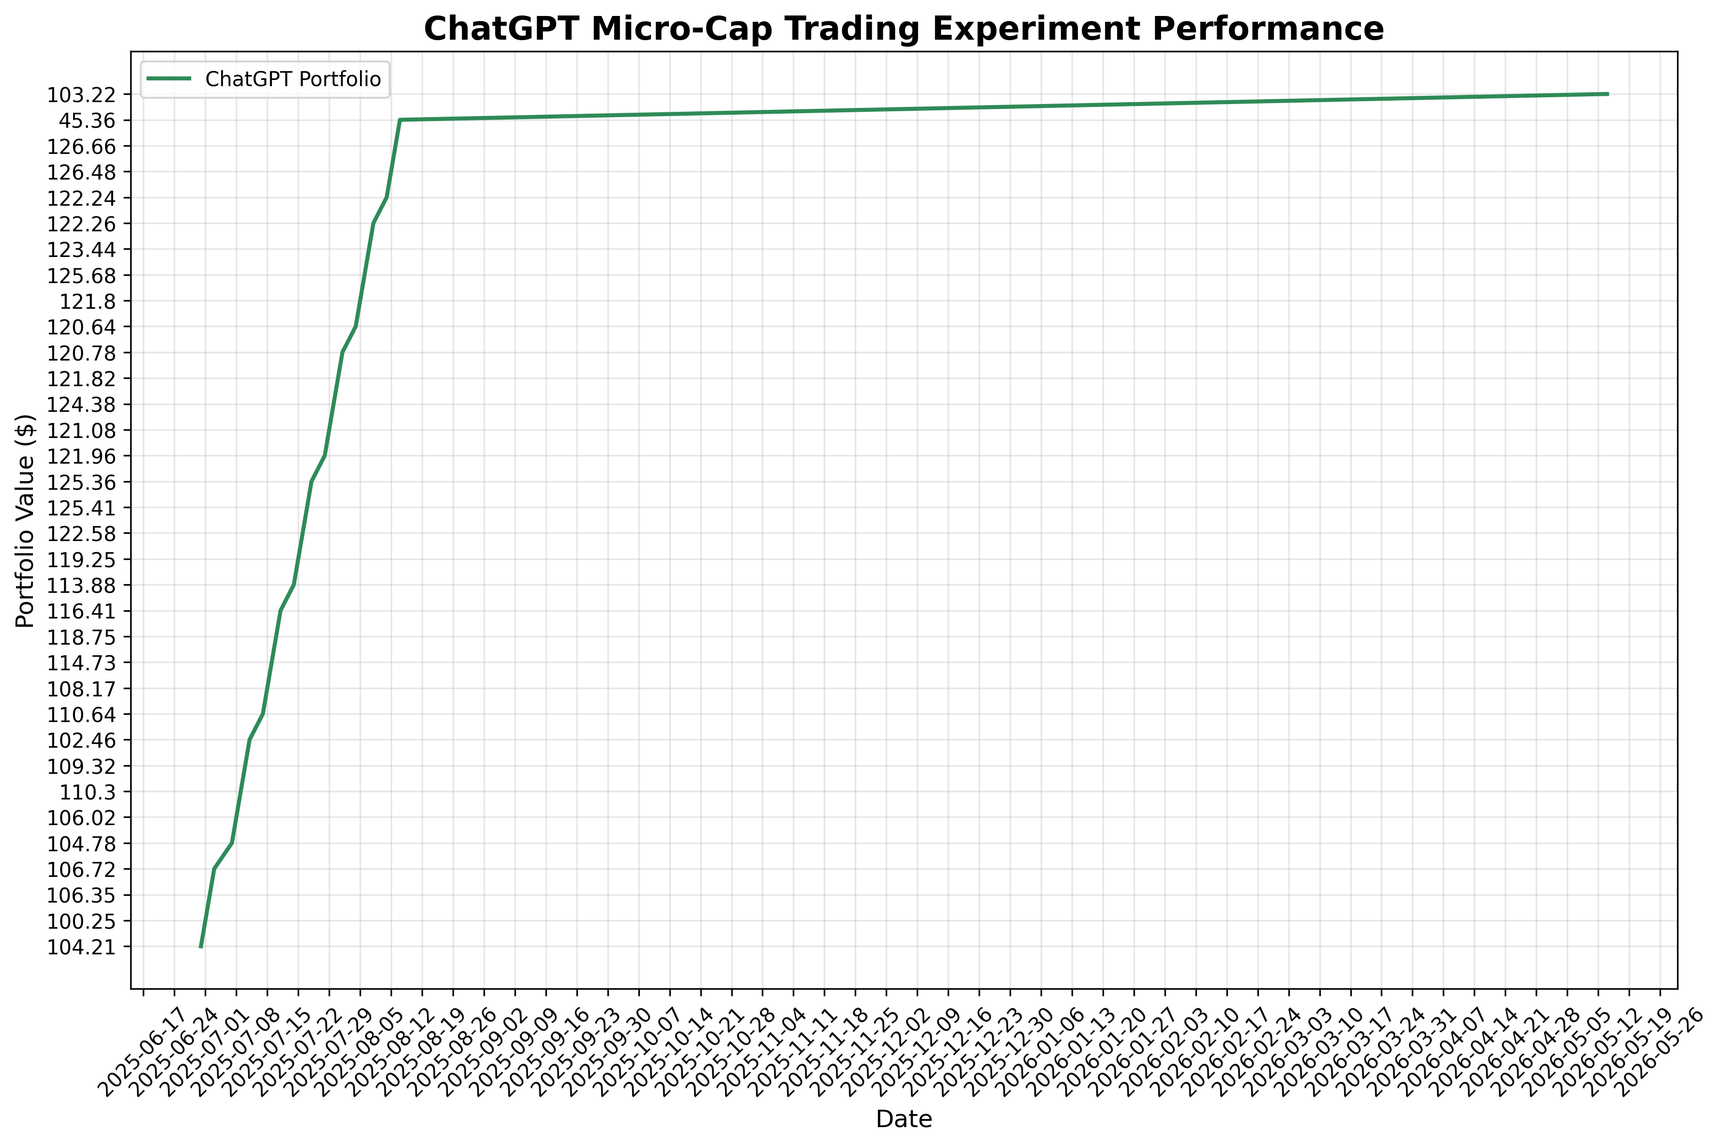
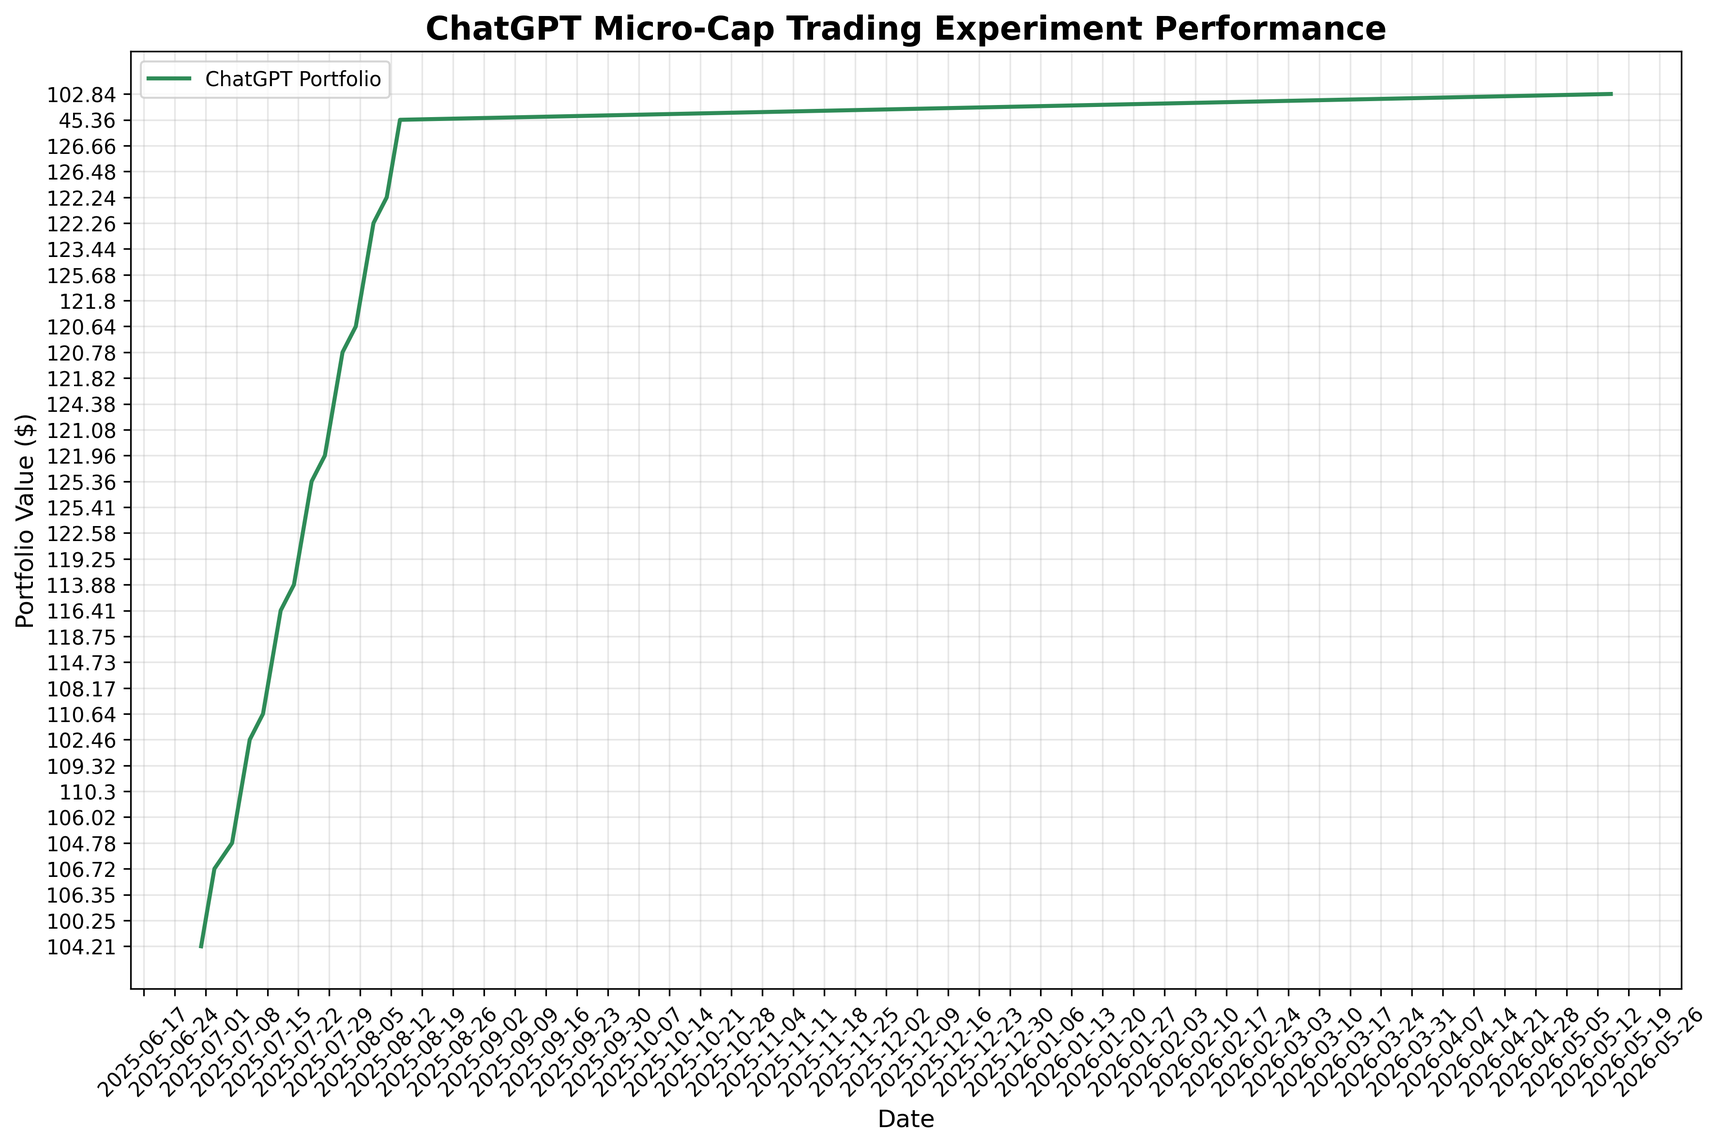
deploy: e15cad030d70fb3fbb51f9df6e22fa70c2f175c0

diff --git a/index.html b/index.html
@@ -105,7 +105,7 @@
                 <div class="stat-label">Total Trades</div>
             </div>
             <div class="stat-card">
-                <div class="stat-value" id="last-updated">2026-05-14</div>
+                <div class="stat-value" id="last-updated">2026-05-15</div>
                 <div class="stat-label">Last Updated</div>
             </div>
         </div>
@@ -160,8 +160,8 @@
     
     <script>
         // Portfolio data
-        const portfolioData = JSON.parse("[{&quot;Date&quot;: &quot;2025-08-11&quot;, &quot;Ticker&quot;: &quot;ABEO&quot;, &quot;Shares&quot;: 4.0, &quot;Buy Price&quot;: 5.77, &quot;Cost Basis&quot;: 23.08, &quot;Stop Loss&quot;: 4.9, &quot;Current Price&quot;: 6.28, &quot;Total Value&quot;: 25.12, &quot;PnL&quot;: 2.04, &quot;Action&quot;: &quot;HOLD&quot;, &quot;Cash Balance&quot;: NaN, &quot;Total Equity&quot;: NaN}, {&quot;Date&quot;: &quot;2025-08-11&quot;, &quot;Ticker&quot;: &quot;ACTU&quot;, &quot;Shares&quot;: 6.0, &quot;Buy Price&quot;: 5.75, &quot;Cost Basis&quot;: 34.5, &quot;Stop Loss&quot;: 4.89, &quot;Current Price&quot;: 8.01, &quot;Total Value&quot;: 48.06, &quot;PnL&quot;: 13.56, &quot;Action&quot;: &quot;HOLD&quot;, &quot;Cash Balance&quot;: NaN, &quot;Total Equity&quot;: NaN}, {&quot;Date&quot;: &quot;2025-08-11&quot;, &quot;Ticker&quot;: &quot;ESPR&quot;, &quot;Shares&quot;: 2.0, &quot;Buy Price&quot;: 1.91, &quot;Cost Basis&quot;: 3.82, &quot;Stop Loss&quot;: 1.6, &quot;Current Price&quot;: 1.85, &quot;Total Value&quot;: 3.7, &quot;PnL&quot;: -0.12, &quot;Action&quot;: &quot;HOLD&quot;, &quot;Cash Balance&quot;: NaN, &quot;Total Equity&quot;: NaN}, {&quot;Date&quot;: &quot;2025-08-11&quot;, &quot;Ticker&quot;: &quot;TOTAL&quot;, &quot;Shares&quot;: NaN, &quot;Buy Price&quot;: NaN, &quot;Cost Basis&quot;: NaN, &quot;Stop Loss&quot;: NaN, &quot;Current Price&quot;: NaN, &quot;Total Value&quot;: 76.88, &quot;PnL&quot;: 15.48, &quot;Action&quot;: NaN, &quot;Cash Balance&quot;: 45.36, &quot;Total Equity&quot;: &quot;122.24&quot;}, {&quot;Date&quot;: &quot;2025-08-12&quot;, &quot;Ticker&quot;: &quot;ABEO&quot;, &quot;Shares&quot;: 4.0, &quot;Buy Price&quot;: 5.77, &quot;Cost Basis&quot;: 23.08, &quot;Stop Loss&quot;: 4.9, &quot;Current Price&quot;: 6.38, &quot;Total Value&quot;: 25.52, &quot;PnL&quot;: 2.44, &quot;Action&quot;: &quot;HOLD&quot;, &quot;Cash Balance&quot;: NaN, &quot;Total Equity&quot;: NaN}, {&quot;Date&quot;: &quot;2025-08-12&quot;, &quot;Ticker&quot;: &quot;ACTU&quot;, &quot;Shares&quot;: 6.0, &quot;Buy Price&quot;: 5.75, &quot;Cost Basis&quot;: 34.5, &quot;Stop Loss&quot;: 4.89, &quot;Current Price&quot;: 8.67, &quot;Total Value&quot;: 52.02, &quot;PnL&quot;: 17.52, &quot;Action&quot;: &quot;HOLD&quot;, &quot;Cash Balance&quot;: NaN, &quot;Total Equity&quot;: NaN}, {&quot;Date&quot;: &quot;2025-08-12&quot;, &quot;Ticker&quot;: &quot;ESPR&quot;, &quot;Shares&quot;: 2.0, &quot;Buy Price&quot;: 1.91, &quot;Cost Basis&quot;: 3.82, &quot;Stop Loss&quot;: 1.6, &quot;Current Price&quot;: 1.79, &quot;Total Value&quot;: 3.58, &quot;PnL&quot;: -0.24, &quot;Action&quot;: &quot;HOLD&quot;, &quot;Cash Balance&quot;: NaN, &quot;Total Equity&quot;: NaN}, {&quot;Date&quot;: &quot;2025-08-12&quot;, &quot;Ticker&quot;: &quot;TOTAL&quot;, &quot;Shares&quot;: NaN, &quot;Buy Price&quot;: NaN, &quot;Cost Basis&quot;: NaN, &quot;Stop Loss&quot;: NaN, &quot;Current Price&quot;: NaN, &quot;Total Value&quot;: 81.12, &quot;PnL&quot;: 19.72, &quot;Action&quot;: NaN, &quot;Cash Balance&quot;: 45.36, &quot;Total Equity&quot;: &quot;126.48&quot;}, {&quot;Date&quot;: &quot;2025-08-13&quot;, &quot;Ticker&quot;: &quot;ABEO&quot;, &quot;Shares&quot;: 4.0, &quot;Buy Price&quot;: 5.77, &quot;Cost Basis&quot;: 23.08, &quot;Stop Loss&quot;: 4.9, &quot;Current Price&quot;: 6.56, &quot;Total Value&quot;: 26.24, &quot;PnL&quot;: 3.16, &quot;Action&quot;: &quot;HOLD&quot;, &quot;Cash Balance&quot;: NaN, &quot;Total Equity&quot;: NaN}, {&quot;Date&quot;: &quot;2025-08-13&quot;, &quot;Ticker&quot;: &quot;ACTU&quot;, &quot;Shares&quot;: 6.0, &quot;Buy Price&quot;: 5.75, &quot;Cost Basis&quot;: 34.5, &quot;Stop Loss&quot;: 4.89, &quot;Current Price&quot;: 8.53, &quot;Total Value&quot;: 51.18, &quot;PnL&quot;: 16.68, &quot;Action&quot;: &quot;HOLD&quot;, &quot;Cash Balance&quot;: NaN, &quot;Total Equity&quot;: NaN}, {&quot;Date&quot;: &quot;2025-08-13&quot;, &quot;Ticker&quot;: &quot;ESPR&quot;, &quot;Shares&quot;: 2.0, &quot;Buy Price&quot;: 1.91, &quot;Cost Basis&quot;: 3.82, &quot;Stop Loss&quot;: 1.6, &quot;Current Price&quot;: 1.94, &quot;Total Value&quot;: 3.88, &quot;PnL&quot;: 0.06, &quot;Action&quot;: &quot;HOLD&quot;, &quot;Cash Balance&quot;: NaN, &quot;Total Equity&quot;: NaN}, {&quot;Date&quot;: &quot;2025-08-13&quot;, &quot;Ticker&quot;: &quot;TOTAL&quot;, &quot;Shares&quot;: NaN, &quot;Buy Price&quot;: NaN, &quot;Cost Basis&quot;: NaN, &quot;Stop Loss&quot;: NaN, &quot;Current Price&quot;: NaN, &quot;Total Value&quot;: 81.3, &quot;PnL&quot;: 19.9, &quot;Action&quot;: NaN, &quot;Cash Balance&quot;: 45.36, &quot;Total Equity&quot;: &quot;126.66&quot;}, {&quot;Date&quot;: &quot;2025-08-14&quot;, &quot;Ticker&quot;: &quot;ABEO&quot;, &quot;Shares&quot;: 4.0, &quot;Buy Price&quot;: 5.77, &quot;Cost Basis&quot;: 23.08, &quot;Stop Loss&quot;: 4.9, &quot;Current Price&quot;: NaN, &quot;Total Value&quot;: NaN, &quot;PnL&quot;: NaN, &quot;Action&quot;: &quot;NO DATA&quot;, &quot;Cash Balance&quot;: NaN, &quot;Total Equity&quot;: NaN}, {&quot;Date&quot;: &quot;2025-08-14&quot;, &quot;Ticker&quot;: &quot;ACTU&quot;, &quot;Shares&quot;: 6.0, &quot;Buy Price&quot;: 5.75, &quot;Cost Basis&quot;: 34.5, &quot;Stop Loss&quot;: 4.89, &quot;Current Price&quot;: NaN, &quot;Total Value&quot;: NaN, &quot;PnL&quot;: NaN, &quot;Action&quot;: &quot;NO DATA&quot;, &quot;Cash Balance&quot;: NaN, &quot;Total Equity&quot;: NaN}, {&quot;Date&quot;: &quot;2025-08-14&quot;, &quot;Ticker&quot;: &quot;ESPR&quot;, &quot;Shares&quot;: 2.0, &quot;Buy Price&quot;: 1.91, &quot;Cost Basis&quot;: 3.82, &quot;Stop Loss&quot;: 1.6, &quot;Current Price&quot;: NaN, &quot;Total Value&quot;: NaN, &quot;PnL&quot;: NaN, &quot;Action&quot;: &quot;NO DATA&quot;, &quot;Cash Balance&quot;: NaN, &quot;Total Equity&quot;: NaN}, {&quot;Date&quot;: &quot;2025-08-14&quot;, &quot;Ticker&quot;: &quot;TOTAL&quot;, &quot;Shares&quot;: NaN, &quot;Buy Price&quot;: NaN, &quot;Cost Basis&quot;: NaN, &quot;Stop Loss&quot;: NaN, &quot;Current Price&quot;: NaN, &quot;Total Value&quot;: 0.0, &quot;PnL&quot;: 0.0, &quot;Action&quot;: NaN, &quot;Cash Balance&quot;: 45.36, &quot;Total Equity&quot;: &quot;45.36&quot;}, {&quot;Date&quot;: &quot;2026-05-14&quot;, &quot;Ticker&quot;: &quot;ABEO&quot;, &quot;Shares&quot;: 4.0, &quot;Buy Price&quot;: 5.77, &quot;Cost Basis&quot;: 23.08, &quot;Stop Loss&quot;: 4.9, &quot;Current Price&quot;: 5.57, &quot;Total Value&quot;: 22.28, &quot;PnL&quot;: -0.8, &quot;Action&quot;: &quot;HOLD&quot;, &quot;Cash Balance&quot;: NaN, &quot;Total Equity&quot;: NaN}, {&quot;Date&quot;: &quot;2026-05-14&quot;, &quot;Ticker&quot;: &quot;ACTU&quot;, &quot;Shares&quot;: 6.0, &quot;Buy Price&quot;: 5.75, &quot;Cost Basis&quot;: 34.5, &quot;Stop Loss&quot;: 4.89, &quot;Current Price&quot;: 4.89, &quot;Total Value&quot;: 29.34, &quot;PnL&quot;: -5.16, &quot;Action&quot;: &quot;SELL - Stop Loss Triggered&quot;, &quot;Cash Balance&quot;: NaN, &quot;Total Equity&quot;: NaN}, {&quot;Date&quot;: &quot;2026-05-14&quot;, &quot;Ticker&quot;: &quot;ESPR&quot;, &quot;Shares&quot;: 2.0, &quot;Buy Price&quot;: 1.91, &quot;Cost Basis&quot;: 3.82, &quot;Stop Loss&quot;: 1.6, &quot;Current Price&quot;: 3.12, &quot;Total Value&quot;: 6.24, &quot;PnL&quot;: 2.42, &quot;Action&quot;: &quot;HOLD&quot;, &quot;Cash Balance&quot;: NaN, &quot;Total Equity&quot;: NaN}, {&quot;Date&quot;: &quot;2026-05-14&quot;, &quot;Ticker&quot;: &quot;TOTAL&quot;, &quot;Shares&quot;: NaN, &quot;Buy Price&quot;: NaN, &quot;Cost Basis&quot;: NaN, &quot;Stop Loss&quot;: NaN, &quot;Current Price&quot;: NaN, &quot;Total Value&quot;: 28.52, &quot;PnL&quot;: 1.62, &quot;Action&quot;: NaN, &quot;Cash Balance&quot;: 74.7, &quot;Total Equity&quot;: &quot;103.22&quot;}]");
-        const tradeData = JSON.parse("[{&quot;Date&quot;: &quot;2025-07-08&quot;, &quot;Ticker&quot;: &quot;IINN&quot;, &quot;Shares Bought&quot;: 20.0, &quot;Buy Price&quot;: 1.5, &quot;Cost Basis&quot;: 30.0, &quot;PnL&quot;: 0.0, &quot;Reason&quot;: &quot;MANUAL BUY - New position&quot;, &quot;Shares Sold&quot;: NaN, &quot;Sell Price&quot;: NaN}, {&quot;Date&quot;: &quot;2025-07-21&quot;, &quot;Ticker&quot;: &quot;CADL&quot;, &quot;Shares Bought&quot;: NaN, &quot;Buy Price&quot;: NaN, &quot;Cost Basis&quot;: 25.2, &quot;PnL&quot;: 8.5, &quot;Reason&quot;: &quot;MANUAL SELL - GAIN CAPITAL FOR ACTU&quot;, &quot;Shares Sold&quot;: 5.0, &quot;Sell Price&quot;: 6.59}, {&quot;Date&quot;: &quot;2025-07-21&quot;, &quot;Ticker&quot;: &quot;ACTU&quot;, &quot;Shares Bought&quot;: 6.0, &quot;Buy Price&quot;: 5.75, &quot;Cost Basis&quot;: 34.5, &quot;PnL&quot;: 0.0, &quot;Reason&quot;: &quot;MANUAL BUY - New position&quot;, &quot;Shares Sold&quot;: NaN, &quot;Sell Price&quot;: NaN}, {&quot;Date&quot;: &quot;2025-07-28&quot;, &quot;Ticker&quot;: &quot;IINN&quot;, &quot;Shares Bought&quot;: NaN, &quot;Buy Price&quot;: NaN, &quot;Cost Basis&quot;: 9.0, &quot;PnL&quot;: -0.5400000000000009, &quot;Reason&quot;: &quot;MANUAL SELL - POSITION REDUCTION&quot;, &quot;Shares Sold&quot;: 6.0, &quot;Sell Price&quot;: 1.41}, {&quot;Date&quot;: &quot;2025-07-29&quot;, &quot;Ticker&quot;: &quot;AZTR&quot;, &quot;Shares Bought&quot;: NaN, &quot;Buy Price&quot;: NaN, &quot;Cost Basis&quot;: 13.75, &quot;PnL&quot;: -2.75, &quot;Reason&quot;: &quot;MANUAL SELL - DILUTION RISK&quot;, &quot;Shares Sold&quot;: 55.0, &quot;Sell Price&quot;: 0.2}, {&quot;Date&quot;: &quot;2025-08-01&quot;, &quot;Ticker&quot;: &quot;IINN&quot;, &quot;Shares Bought&quot;: 2.0, &quot;Buy Price&quot;: 1.74, &quot;Cost Basis&quot;: 3.48, &quot;PnL&quot;: 0.0, &quot;Reason&quot;: &quot;MANUAL BUY - New position&quot;, &quot;Shares Sold&quot;: NaN, &quot;Sell Price&quot;: NaN}, {&quot;Date&quot;: &quot;2025-08-01&quot;, &quot;Ticker&quot;: &quot;ABEO&quot;, &quot;Shares Bought&quot;: NaN, &quot;Buy Price&quot;: NaN, &quot;Cost Basis&quot;: 11.54, &quot;PnL&quot;: 1.200000000000001, &quot;Reason&quot;: &quot;MANUAL SELL - TRIM AFTER SUPPORT LOSS&quot;, &quot;Shares Sold&quot;: 2.0, &quot;Sell Price&quot;: 6.37}, {&quot;Date&quot;: &quot;2025-08-07&quot;, &quot;Ticker&quot;: &quot;ESPR&quot;, &quot;Shares Bought&quot;: 2.0, &quot;Buy Price&quot;: 1.91, &quot;Cost Basis&quot;: 3.82, &quot;PnL&quot;: 0.0, &quot;Reason&quot;: &quot;MANUAL BUY - New position&quot;, &quot;Shares Sold&quot;: NaN, &quot;Sell Price&quot;: NaN}, {&quot;Date&quot;: &quot;2025-08-08&quot;, &quot;Ticker&quot;: &quot;IINN&quot;, &quot;Shares Bought&quot;: NaN, &quot;Buy Price&quot;: NaN, &quot;Cost Basis&quot;: 1.5, &quot;PnL&quot;: -6.4, &quot;Reason&quot;: &quot;AUTOMATED SELL - STOPLOSS TRIGGERED&quot;, &quot;Shares Sold&quot;: 16.0, &quot;Sell Price&quot;: 1.1}, {&quot;Date&quot;: &quot;2026-05-14&quot;, &quot;Ticker&quot;: &quot;ACTU&quot;, &quot;Shares Bought&quot;: NaN, &quot;Buy Price&quot;: NaN, &quot;Cost Basis&quot;: 5.75, &quot;PnL&quot;: -5.16, &quot;Reason&quot;: &quot;AUTOMATED SELL - STOPLOSS TRIGGERED&quot;, &quot;Shares Sold&quot;: 6.0, &quot;Sell Price&quot;: 4.89}]");
+        const portfolioData = JSON.parse("[{&quot;Date&quot;: &quot;2025-08-11&quot;, &quot;Ticker&quot;: &quot;ABEO&quot;, &quot;Shares&quot;: 4.0, &quot;Buy Price&quot;: 5.77, &quot;Cost Basis&quot;: 23.08, &quot;Stop Loss&quot;: 4.9, &quot;Current Price&quot;: 6.28, &quot;Total Value&quot;: 25.12, &quot;PnL&quot;: 2.04, &quot;Action&quot;: &quot;HOLD&quot;, &quot;Cash Balance&quot;: NaN, &quot;Total Equity&quot;: NaN}, {&quot;Date&quot;: &quot;2025-08-11&quot;, &quot;Ticker&quot;: &quot;ACTU&quot;, &quot;Shares&quot;: 6.0, &quot;Buy Price&quot;: 5.75, &quot;Cost Basis&quot;: 34.5, &quot;Stop Loss&quot;: 4.89, &quot;Current Price&quot;: 8.01, &quot;Total Value&quot;: 48.06, &quot;PnL&quot;: 13.56, &quot;Action&quot;: &quot;HOLD&quot;, &quot;Cash Balance&quot;: NaN, &quot;Total Equity&quot;: NaN}, {&quot;Date&quot;: &quot;2025-08-11&quot;, &quot;Ticker&quot;: &quot;ESPR&quot;, &quot;Shares&quot;: 2.0, &quot;Buy Price&quot;: 1.91, &quot;Cost Basis&quot;: 3.82, &quot;Stop Loss&quot;: 1.6, &quot;Current Price&quot;: 1.85, &quot;Total Value&quot;: 3.7, &quot;PnL&quot;: -0.12, &quot;Action&quot;: &quot;HOLD&quot;, &quot;Cash Balance&quot;: NaN, &quot;Total Equity&quot;: NaN}, {&quot;Date&quot;: &quot;2025-08-11&quot;, &quot;Ticker&quot;: &quot;TOTAL&quot;, &quot;Shares&quot;: NaN, &quot;Buy Price&quot;: NaN, &quot;Cost Basis&quot;: NaN, &quot;Stop Loss&quot;: NaN, &quot;Current Price&quot;: NaN, &quot;Total Value&quot;: 76.88, &quot;PnL&quot;: 15.48, &quot;Action&quot;: NaN, &quot;Cash Balance&quot;: 45.36, &quot;Total Equity&quot;: &quot;122.24&quot;}, {&quot;Date&quot;: &quot;2025-08-12&quot;, &quot;Ticker&quot;: &quot;ABEO&quot;, &quot;Shares&quot;: 4.0, &quot;Buy Price&quot;: 5.77, &quot;Cost Basis&quot;: 23.08, &quot;Stop Loss&quot;: 4.9, &quot;Current Price&quot;: 6.38, &quot;Total Value&quot;: 25.52, &quot;PnL&quot;: 2.44, &quot;Action&quot;: &quot;HOLD&quot;, &quot;Cash Balance&quot;: NaN, &quot;Total Equity&quot;: NaN}, {&quot;Date&quot;: &quot;2025-08-12&quot;, &quot;Ticker&quot;: &quot;ACTU&quot;, &quot;Shares&quot;: 6.0, &quot;Buy Price&quot;: 5.75, &quot;Cost Basis&quot;: 34.5, &quot;Stop Loss&quot;: 4.89, &quot;Current Price&quot;: 8.67, &quot;Total Value&quot;: 52.02, &quot;PnL&quot;: 17.52, &quot;Action&quot;: &quot;HOLD&quot;, &quot;Cash Balance&quot;: NaN, &quot;Total Equity&quot;: NaN}, {&quot;Date&quot;: &quot;2025-08-12&quot;, &quot;Ticker&quot;: &quot;ESPR&quot;, &quot;Shares&quot;: 2.0, &quot;Buy Price&quot;: 1.91, &quot;Cost Basis&quot;: 3.82, &quot;Stop Loss&quot;: 1.6, &quot;Current Price&quot;: 1.79, &quot;Total Value&quot;: 3.58, &quot;PnL&quot;: -0.24, &quot;Action&quot;: &quot;HOLD&quot;, &quot;Cash Balance&quot;: NaN, &quot;Total Equity&quot;: NaN}, {&quot;Date&quot;: &quot;2025-08-12&quot;, &quot;Ticker&quot;: &quot;TOTAL&quot;, &quot;Shares&quot;: NaN, &quot;Buy Price&quot;: NaN, &quot;Cost Basis&quot;: NaN, &quot;Stop Loss&quot;: NaN, &quot;Current Price&quot;: NaN, &quot;Total Value&quot;: 81.12, &quot;PnL&quot;: 19.72, &quot;Action&quot;: NaN, &quot;Cash Balance&quot;: 45.36, &quot;Total Equity&quot;: &quot;126.48&quot;}, {&quot;Date&quot;: &quot;2025-08-13&quot;, &quot;Ticker&quot;: &quot;ABEO&quot;, &quot;Shares&quot;: 4.0, &quot;Buy Price&quot;: 5.77, &quot;Cost Basis&quot;: 23.08, &quot;Stop Loss&quot;: 4.9, &quot;Current Price&quot;: 6.56, &quot;Total Value&quot;: 26.24, &quot;PnL&quot;: 3.16, &quot;Action&quot;: &quot;HOLD&quot;, &quot;Cash Balance&quot;: NaN, &quot;Total Equity&quot;: NaN}, {&quot;Date&quot;: &quot;2025-08-13&quot;, &quot;Ticker&quot;: &quot;ACTU&quot;, &quot;Shares&quot;: 6.0, &quot;Buy Price&quot;: 5.75, &quot;Cost Basis&quot;: 34.5, &quot;Stop Loss&quot;: 4.89, &quot;Current Price&quot;: 8.53, &quot;Total Value&quot;: 51.18, &quot;PnL&quot;: 16.68, &quot;Action&quot;: &quot;HOLD&quot;, &quot;Cash Balance&quot;: NaN, &quot;Total Equity&quot;: NaN}, {&quot;Date&quot;: &quot;2025-08-13&quot;, &quot;Ticker&quot;: &quot;ESPR&quot;, &quot;Shares&quot;: 2.0, &quot;Buy Price&quot;: 1.91, &quot;Cost Basis&quot;: 3.82, &quot;Stop Loss&quot;: 1.6, &quot;Current Price&quot;: 1.94, &quot;Total Value&quot;: 3.88, &quot;PnL&quot;: 0.06, &quot;Action&quot;: &quot;HOLD&quot;, &quot;Cash Balance&quot;: NaN, &quot;Total Equity&quot;: NaN}, {&quot;Date&quot;: &quot;2025-08-13&quot;, &quot;Ticker&quot;: &quot;TOTAL&quot;, &quot;Shares&quot;: NaN, &quot;Buy Price&quot;: NaN, &quot;Cost Basis&quot;: NaN, &quot;Stop Loss&quot;: NaN, &quot;Current Price&quot;: NaN, &quot;Total Value&quot;: 81.3, &quot;PnL&quot;: 19.9, &quot;Action&quot;: NaN, &quot;Cash Balance&quot;: 45.36, &quot;Total Equity&quot;: &quot;126.66&quot;}, {&quot;Date&quot;: &quot;2025-08-14&quot;, &quot;Ticker&quot;: &quot;ABEO&quot;, &quot;Shares&quot;: 4.0, &quot;Buy Price&quot;: 5.77, &quot;Cost Basis&quot;: 23.08, &quot;Stop Loss&quot;: 4.9, &quot;Current Price&quot;: NaN, &quot;Total Value&quot;: NaN, &quot;PnL&quot;: NaN, &quot;Action&quot;: &quot;NO DATA&quot;, &quot;Cash Balance&quot;: NaN, &quot;Total Equity&quot;: NaN}, {&quot;Date&quot;: &quot;2025-08-14&quot;, &quot;Ticker&quot;: &quot;ACTU&quot;, &quot;Shares&quot;: 6.0, &quot;Buy Price&quot;: 5.75, &quot;Cost Basis&quot;: 34.5, &quot;Stop Loss&quot;: 4.89, &quot;Current Price&quot;: NaN, &quot;Total Value&quot;: NaN, &quot;PnL&quot;: NaN, &quot;Action&quot;: &quot;NO DATA&quot;, &quot;Cash Balance&quot;: NaN, &quot;Total Equity&quot;: NaN}, {&quot;Date&quot;: &quot;2025-08-14&quot;, &quot;Ticker&quot;: &quot;ESPR&quot;, &quot;Shares&quot;: 2.0, &quot;Buy Price&quot;: 1.91, &quot;Cost Basis&quot;: 3.82, &quot;Stop Loss&quot;: 1.6, &quot;Current Price&quot;: NaN, &quot;Total Value&quot;: NaN, &quot;PnL&quot;: NaN, &quot;Action&quot;: &quot;NO DATA&quot;, &quot;Cash Balance&quot;: NaN, &quot;Total Equity&quot;: NaN}, {&quot;Date&quot;: &quot;2025-08-14&quot;, &quot;Ticker&quot;: &quot;TOTAL&quot;, &quot;Shares&quot;: NaN, &quot;Buy Price&quot;: NaN, &quot;Cost Basis&quot;: NaN, &quot;Stop Loss&quot;: NaN, &quot;Current Price&quot;: NaN, &quot;Total Value&quot;: 0.0, &quot;PnL&quot;: 0.0, &quot;Action&quot;: NaN, &quot;Cash Balance&quot;: 45.36, &quot;Total Equity&quot;: &quot;45.36&quot;}, {&quot;Date&quot;: &quot;2026-05-15&quot;, &quot;Ticker&quot;: &quot;ABEO&quot;, &quot;Shares&quot;: 4.0, &quot;Buy Price&quot;: 5.77, &quot;Cost Basis&quot;: 23.08, &quot;Stop Loss&quot;: 4.9, &quot;Current Price&quot;: 5.47, &quot;Total Value&quot;: 21.88, &quot;PnL&quot;: -1.2, &quot;Action&quot;: &quot;HOLD&quot;, &quot;Cash Balance&quot;: NaN, &quot;Total Equity&quot;: NaN}, {&quot;Date&quot;: &quot;2026-05-15&quot;, &quot;Ticker&quot;: &quot;ACTU&quot;, &quot;Shares&quot;: 6.0, &quot;Buy Price&quot;: 5.75, &quot;Cost Basis&quot;: 34.5, &quot;Stop Loss&quot;: 4.89, &quot;Current Price&quot;: 4.89, &quot;Total Value&quot;: 29.34, &quot;PnL&quot;: -5.16, &quot;Action&quot;: &quot;SELL - Stop Loss Triggered&quot;, &quot;Cash Balance&quot;: NaN, &quot;Total Equity&quot;: NaN}, {&quot;Date&quot;: &quot;2026-05-15&quot;, &quot;Ticker&quot;: &quot;ESPR&quot;, &quot;Shares&quot;: 2.0, &quot;Buy Price&quot;: 1.91, &quot;Cost Basis&quot;: 3.82, &quot;Stop Loss&quot;: 1.6, &quot;Current Price&quot;: 3.13, &quot;Total Value&quot;: 6.26, &quot;PnL&quot;: 2.44, &quot;Action&quot;: &quot;HOLD&quot;, &quot;Cash Balance&quot;: NaN, &quot;Total Equity&quot;: NaN}, {&quot;Date&quot;: &quot;2026-05-15&quot;, &quot;Ticker&quot;: &quot;TOTAL&quot;, &quot;Shares&quot;: NaN, &quot;Buy Price&quot;: NaN, &quot;Cost Basis&quot;: NaN, &quot;Stop Loss&quot;: NaN, &quot;Current Price&quot;: NaN, &quot;Total Value&quot;: 28.14, &quot;PnL&quot;: 1.24, &quot;Action&quot;: NaN, &quot;Cash Balance&quot;: 74.7, &quot;Total Equity&quot;: &quot;102.84&quot;}]");
+        const tradeData = JSON.parse("[{&quot;Date&quot;: &quot;2025-07-08&quot;, &quot;Ticker&quot;: &quot;IINN&quot;, &quot;Shares Bought&quot;: 20.0, &quot;Buy Price&quot;: 1.5, &quot;Cost Basis&quot;: 30.0, &quot;PnL&quot;: 0.0, &quot;Reason&quot;: &quot;MANUAL BUY - New position&quot;, &quot;Shares Sold&quot;: NaN, &quot;Sell Price&quot;: NaN}, {&quot;Date&quot;: &quot;2025-07-21&quot;, &quot;Ticker&quot;: &quot;CADL&quot;, &quot;Shares Bought&quot;: NaN, &quot;Buy Price&quot;: NaN, &quot;Cost Basis&quot;: 25.2, &quot;PnL&quot;: 8.5, &quot;Reason&quot;: &quot;MANUAL SELL - GAIN CAPITAL FOR ACTU&quot;, &quot;Shares Sold&quot;: 5.0, &quot;Sell Price&quot;: 6.59}, {&quot;Date&quot;: &quot;2025-07-21&quot;, &quot;Ticker&quot;: &quot;ACTU&quot;, &quot;Shares Bought&quot;: 6.0, &quot;Buy Price&quot;: 5.75, &quot;Cost Basis&quot;: 34.5, &quot;PnL&quot;: 0.0, &quot;Reason&quot;: &quot;MANUAL BUY - New position&quot;, &quot;Shares Sold&quot;: NaN, &quot;Sell Price&quot;: NaN}, {&quot;Date&quot;: &quot;2025-07-28&quot;, &quot;Ticker&quot;: &quot;IINN&quot;, &quot;Shares Bought&quot;: NaN, &quot;Buy Price&quot;: NaN, &quot;Cost Basis&quot;: 9.0, &quot;PnL&quot;: -0.5400000000000009, &quot;Reason&quot;: &quot;MANUAL SELL - POSITION REDUCTION&quot;, &quot;Shares Sold&quot;: 6.0, &quot;Sell Price&quot;: 1.41}, {&quot;Date&quot;: &quot;2025-07-29&quot;, &quot;Ticker&quot;: &quot;AZTR&quot;, &quot;Shares Bought&quot;: NaN, &quot;Buy Price&quot;: NaN, &quot;Cost Basis&quot;: 13.75, &quot;PnL&quot;: -2.75, &quot;Reason&quot;: &quot;MANUAL SELL - DILUTION RISK&quot;, &quot;Shares Sold&quot;: 55.0, &quot;Sell Price&quot;: 0.2}, {&quot;Date&quot;: &quot;2025-08-01&quot;, &quot;Ticker&quot;: &quot;IINN&quot;, &quot;Shares Bought&quot;: 2.0, &quot;Buy Price&quot;: 1.74, &quot;Cost Basis&quot;: 3.48, &quot;PnL&quot;: 0.0, &quot;Reason&quot;: &quot;MANUAL BUY - New position&quot;, &quot;Shares Sold&quot;: NaN, &quot;Sell Price&quot;: NaN}, {&quot;Date&quot;: &quot;2025-08-01&quot;, &quot;Ticker&quot;: &quot;ABEO&quot;, &quot;Shares Bought&quot;: NaN, &quot;Buy Price&quot;: NaN, &quot;Cost Basis&quot;: 11.54, &quot;PnL&quot;: 1.200000000000001, &quot;Reason&quot;: &quot;MANUAL SELL - TRIM AFTER SUPPORT LOSS&quot;, &quot;Shares Sold&quot;: 2.0, &quot;Sell Price&quot;: 6.37}, {&quot;Date&quot;: &quot;2025-08-07&quot;, &quot;Ticker&quot;: &quot;ESPR&quot;, &quot;Shares Bought&quot;: 2.0, &quot;Buy Price&quot;: 1.91, &quot;Cost Basis&quot;: 3.82, &quot;PnL&quot;: 0.0, &quot;Reason&quot;: &quot;MANUAL BUY - New position&quot;, &quot;Shares Sold&quot;: NaN, &quot;Sell Price&quot;: NaN}, {&quot;Date&quot;: &quot;2025-08-08&quot;, &quot;Ticker&quot;: &quot;IINN&quot;, &quot;Shares Bought&quot;: NaN, &quot;Buy Price&quot;: NaN, &quot;Cost Basis&quot;: 1.5, &quot;PnL&quot;: -6.4, &quot;Reason&quot;: &quot;AUTOMATED SELL - STOPLOSS TRIGGERED&quot;, &quot;Shares Sold&quot;: 16.0, &quot;Sell Price&quot;: 1.1}, {&quot;Date&quot;: &quot;2026-05-15&quot;, &quot;Ticker&quot;: &quot;ACTU&quot;, &quot;Shares Bought&quot;: NaN, &quot;Buy Price&quot;: NaN, &quot;Cost Basis&quot;: 5.75, &quot;PnL&quot;: -5.16, &quot;Reason&quot;: &quot;AUTOMATED SELL - STOPLOSS TRIGGERED&quot;, &quot;Shares Sold&quot;: 6.0, &quot;Sell Price&quot;: 4.89}]");
         
         // Update total equity
         if (portfolioData.length > 0) {
